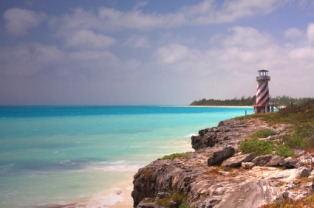
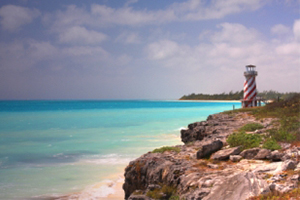
bg-image en destinos caribe para sm

diff --git a/destinos-caribe.html b/destinos-caribe.html
@@ -46,9 +46,8 @@
 
 		<!--  Caribe description -->
 		<section class="[ margin-bottom--large ]">
-			<div class="[][ margin-bottom ]">
-			<img class="[ img-responsive  ]" src="img/destinos.jpg"></div>
-			</div>
+			<img class="[ visible-xs ][ img-responsive  ][ margin-bottom ]" src="img/destinos.jpg"></div>
+			<div class="[ hidden-xs ][ bg-image square img-destinos ][ margin-bottom ]"></div>
 
 			<div class="[ container ]">
 				<h2 class=" [ text-uppercase ][ text-center ][ color-secondary ] ">Caribe</h2>
